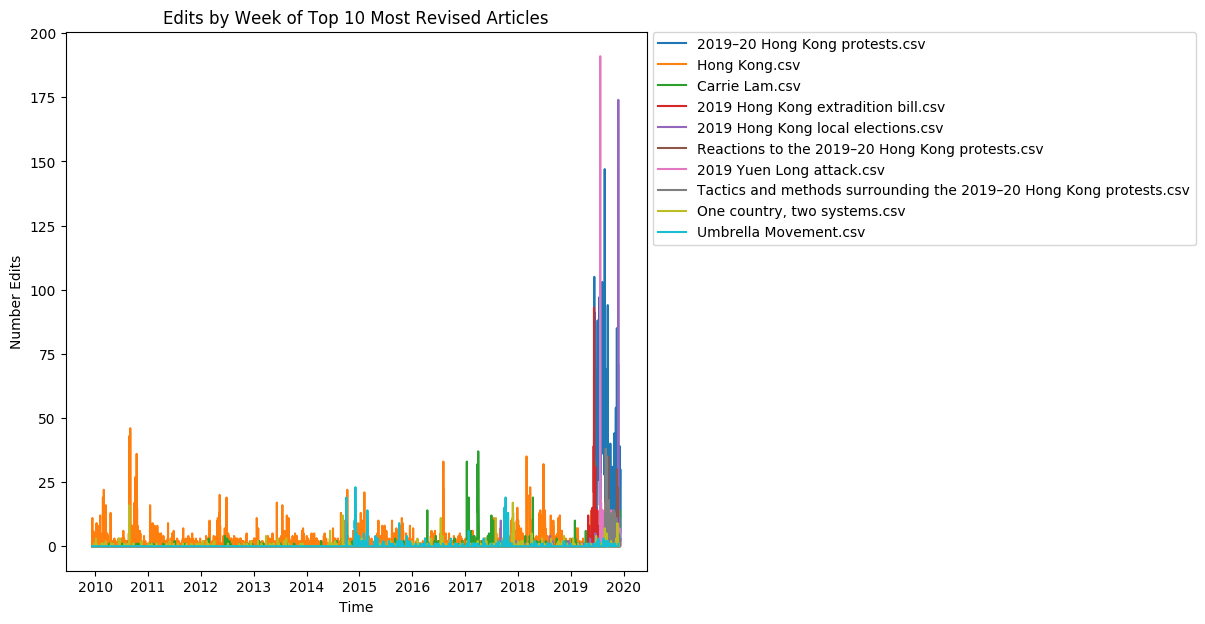
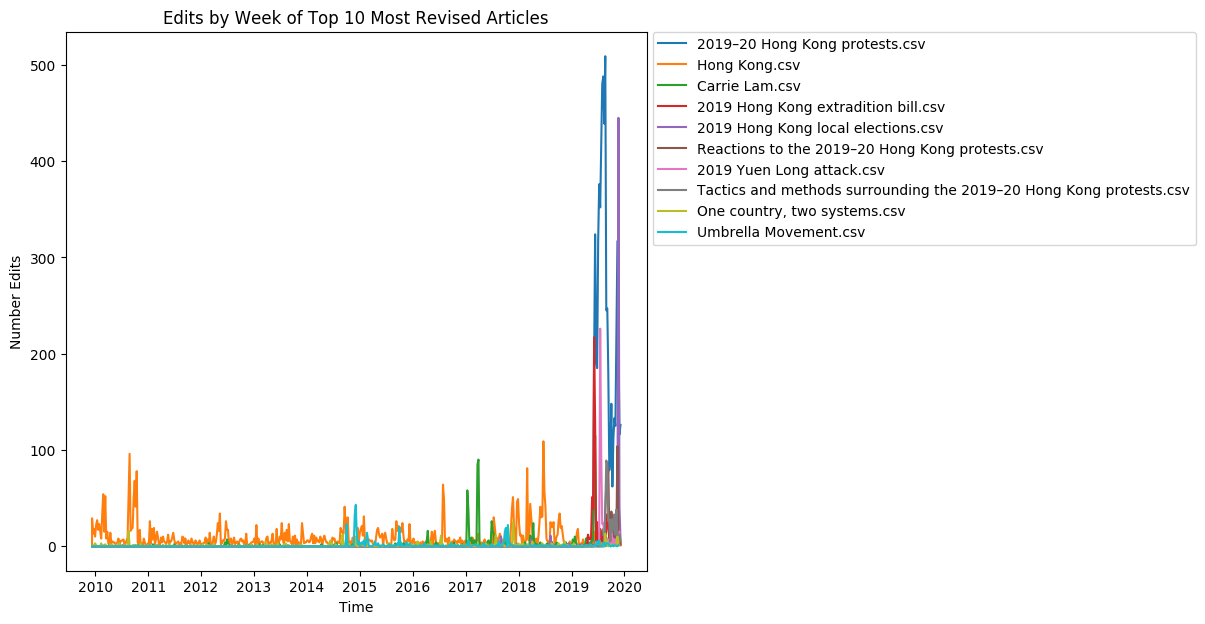
Fixed one more graph, will eventually need to clean up multi-line code to get rid of unnecessary comments and potentially make it easier to run multiple times with different time deltas.

diff --git a/multiline.py b/multiline.py
@@ -130,7 +130,7 @@ def makeMultipleLineFigure(titleArray, titles):
                         # newDate = newDate + timedelta(days=7)
                         # prevDate keeps track of the date before newDate
                         prevDate = newDate
-                        newDate = newDate + timedelta(days=1)
+                        newDate = newDate + timedelta(days=7)
                         edits = 0
                     edits += 1
                     # Edge case for last timedelta in articles
